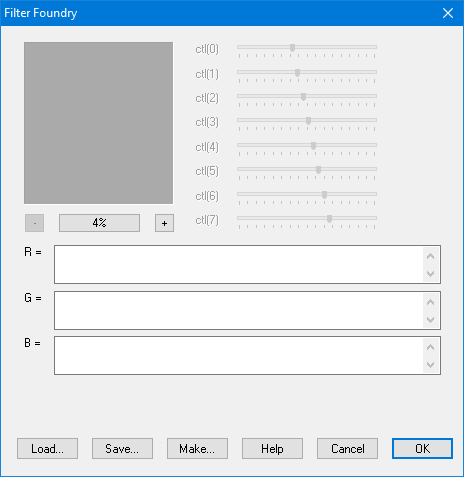
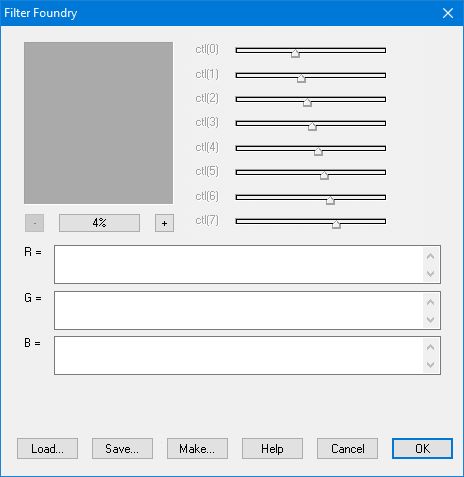
Updated screenshots
git-svn-id: https://svn.viathinksoft.com/svn/filter_foundry/trunk@432 1b5a0048-3058-4200-831f-25aa9e3a14b9

Changed region(s): [[0.5129, 0.1468, 0.8448, 0.499], [0.5129, 0.0881, 0.8448, 0.1174]]

diff --git a/ui_win.c b/ui_win.c
@@ -490,7 +490,7 @@ Boolean Slider_Init_MsTrackbar(LPCSTR targetClass) {
 		FreeLibrary(libComctl32);
 	}
 
-	// Make "FoundrySlider" a subclass of msctls_trackbar32 then
+	// Make "FoundrySlider" a subclass of "msctls_trackbar32" then
 	return MakeSimpleSubclass("FoundrySlider", "msctls_trackbar32");
 }
 

diff --git a/CHANGELOG.md b/CHANGELOG.md
@@ -11,7 +11,7 @@
 - If you click "Make" after the make dialog has been opened once, your previous input will be shown again.
 - Zoom in, zoom out and zoom level label are now buttons (in the default OS style) rather than images and text. (*)
 - By default, Photoshop's sliders (PLUGIN.DLL) will be used. Only if PLUGIN.DLL is missing, the Microsoft Trackbar Controls are used.
-- Fixed severe crash when sliders were created and moved, then the filter was applied and re-opened!!!
+- Fixed severe crash when sliders were created and moved, then the filter was applied and re-opened!
 
 (*) This bug/solution was tested on Windows but needs to be verified and/or implemented on Mac.
 
